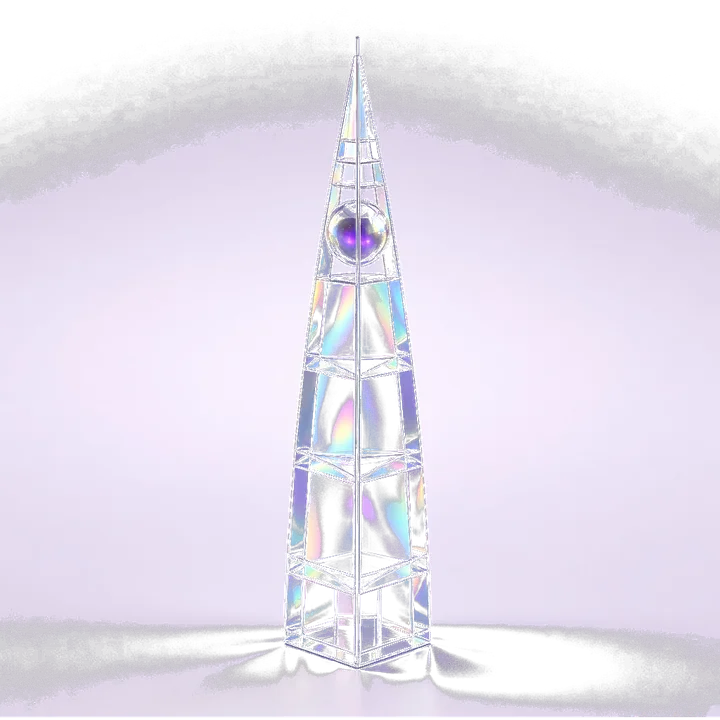
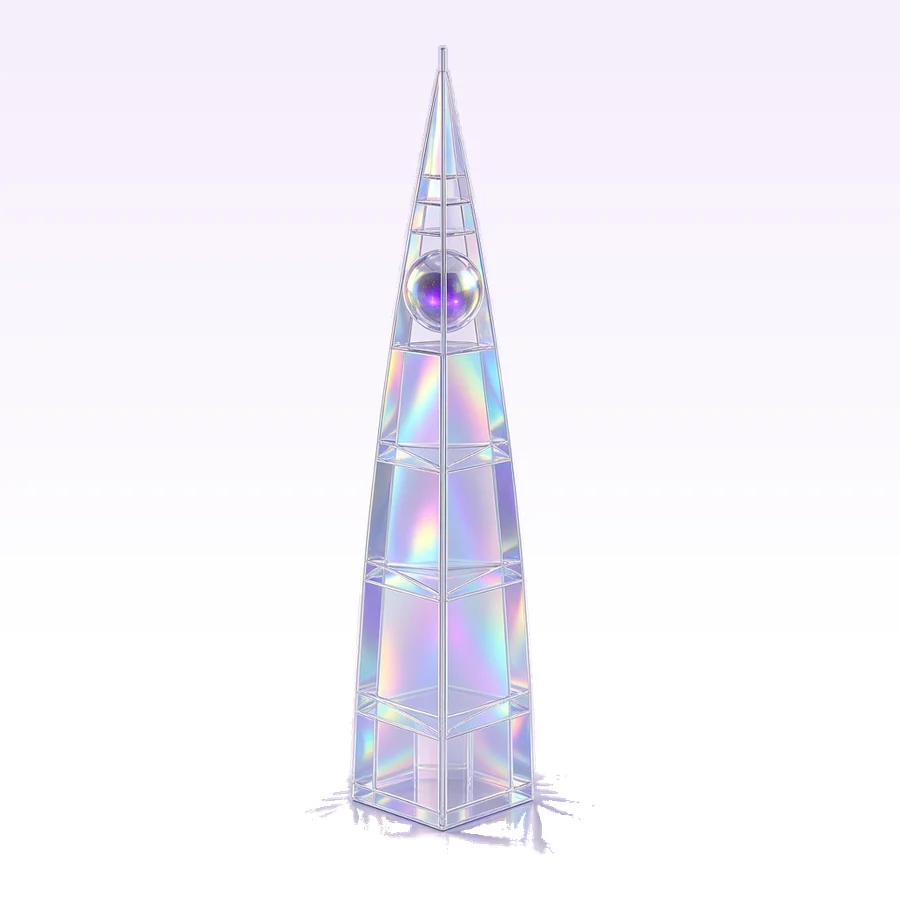
feat(home): swap the fourth step to the Majdoul tower
The go-live card now shows Al Majdoul's twisted glass shaft. All four towers sit larger on a lilac-to-white fade, without the grey arch behind them.

diff --git a/src/web/templates/landing.html b/src/web/templates/landing.html
@@ -323,14 +323,14 @@
                 ('01', 'flow-kingdom.webp', 'برج المملكة من زجاج شفاف بحواف قوس قزح', 'التشخيص', 'نفهم نشاطك وأسئلتك وهدفك مع الرئيس التنفيذي الذكي، قبل أن يُبنى شيء.'),
                 ('02', 'flow-faisaliah.webp', 'برج الفيصلية من زجاج شفاف بحواف قوس قزح', 'البناء', 'نبني موظفك الذكي ووكلاءه على معلوماتك، ويرد بالعربية وباللهجة السعودية.'),
                 ('03', 'flow-tv.webp', 'برج التلفزيون في الرياض من زجاج شفاف بحواف قوس قزح', 'التجربة', 'تجرّبه على أسئلة عملائك، وتراجع الردود قبل الإطلاق.'),
-                ('04', 'flow-clock.webp', 'برج الساعة في مكة من زجاج شفاف بحواف قوس قزح', 'التشغيل', 'ينطلق على واتساب وعلى موقعك، مع متابعة وتقارير تراجعها أنت.'),
+                ('04', 'flow-majdoul.webp', 'برج المجدول في الرياض من زجاج شفاف بحواف قوس قزح', 'التشغيل', 'ينطلق على واتساب وعلى موقعك، مع متابعة وتقارير تراجعها أنت.'),
             ] %}
             {% else %}
             {% set _flow = [
                 ('01', 'flow-kingdom.webp', 'The Kingdom Centre as clear glass with rainbow edges', 'Diagnosis', 'We learn your business, your questions and your goal with the AI CEO, before anything is built.'),
                 ('02', 'flow-faisaliah.webp', 'Al Faisaliah Tower as clear glass with rainbow edges', 'Build', 'We build your AI employee and its agents on your own information. It answers in Arabic and the Saudi dialect.'),
                 ('03', 'flow-tv.webp', 'The Riyadh TV Tower as clear glass with rainbow edges', 'Trial', 'You try it on your customers’ questions and review the replies before launch.'),
-                ('04', 'flow-clock.webp', 'The Makkah clock tower as clear glass with rainbow edges', 'Go live', 'It goes live on WhatsApp and on your website, with follow-up and reports you review.'),
+                ('04', 'flow-majdoul.webp', 'Al Majdoul Tower in Riyadh as clear glass with rainbow edges', 'Go live', 'It goes live on WhatsApp and on your website, with follow-up and reports you review.'),
             ] %}
             {% endif %}
             {% for num, file, alt, title, body in _flow %}

diff --git a/src/web/static/css/narjis-agentic.css b/src/web/static/css/narjis-agentic.css
@@ -404,18 +404,23 @@ html.cine-fallback .nj .steps.flow .n {
 }
 html.cine-on .nj .steps.flow .shot,
 html.cine-fallback .nj .steps.flow .shot {
-  height: 188px;
-  display: grid;
-  place-items: end center;
-  margin: 10px 0 6px;
+  height: 268px;
+  margin: 4px -4px 0;
+  overflow: hidden;
+  border-radius: 18px;
+  background: linear-gradient(180deg, #f4eefb 0%, #fbf8fe 46%, #ffffff 100%);
 }
 html.cine-on .nj .steps.flow .shot img,
 html.cine-fallback .nj .steps.flow .shot img {
+  display: block;
   width: 100%;
-  height: 180px;
-  object-fit: contain;
-  -webkit-mask-image: linear-gradient(#000 58%, transparent 96%);
-  mask-image: linear-gradient(#000 58%, transparent 96%);
+  max-width: 100%;
+  height: 100%;
+  object-fit: cover;
+  object-position: center 46%;
+  transform: scale(1.55);
+  -webkit-mask-image: none;
+  mask-image: none;
 }
 html.cine-on .nj .steps.flow h3,
 html.cine-fallback .nj .steps.flow h3 {
